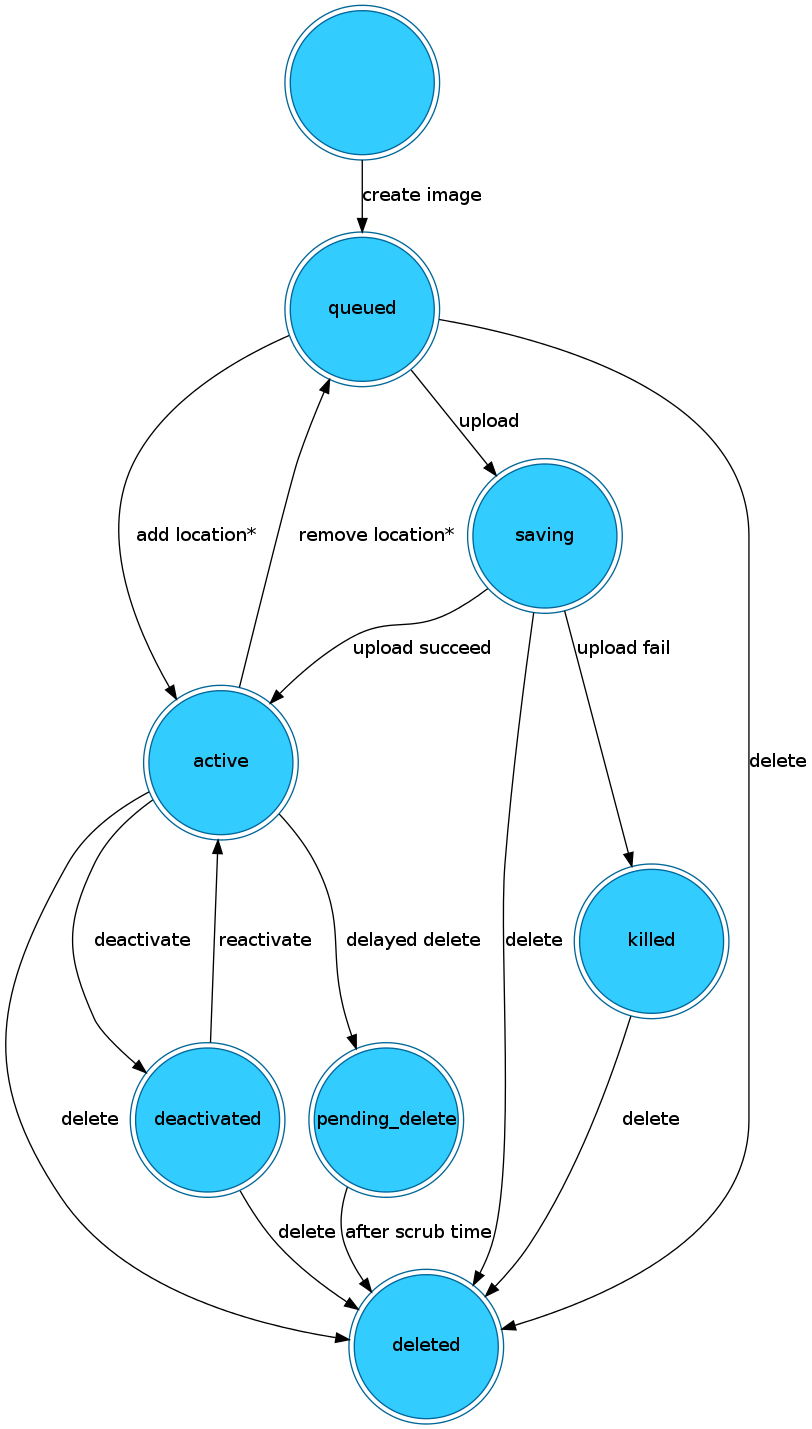
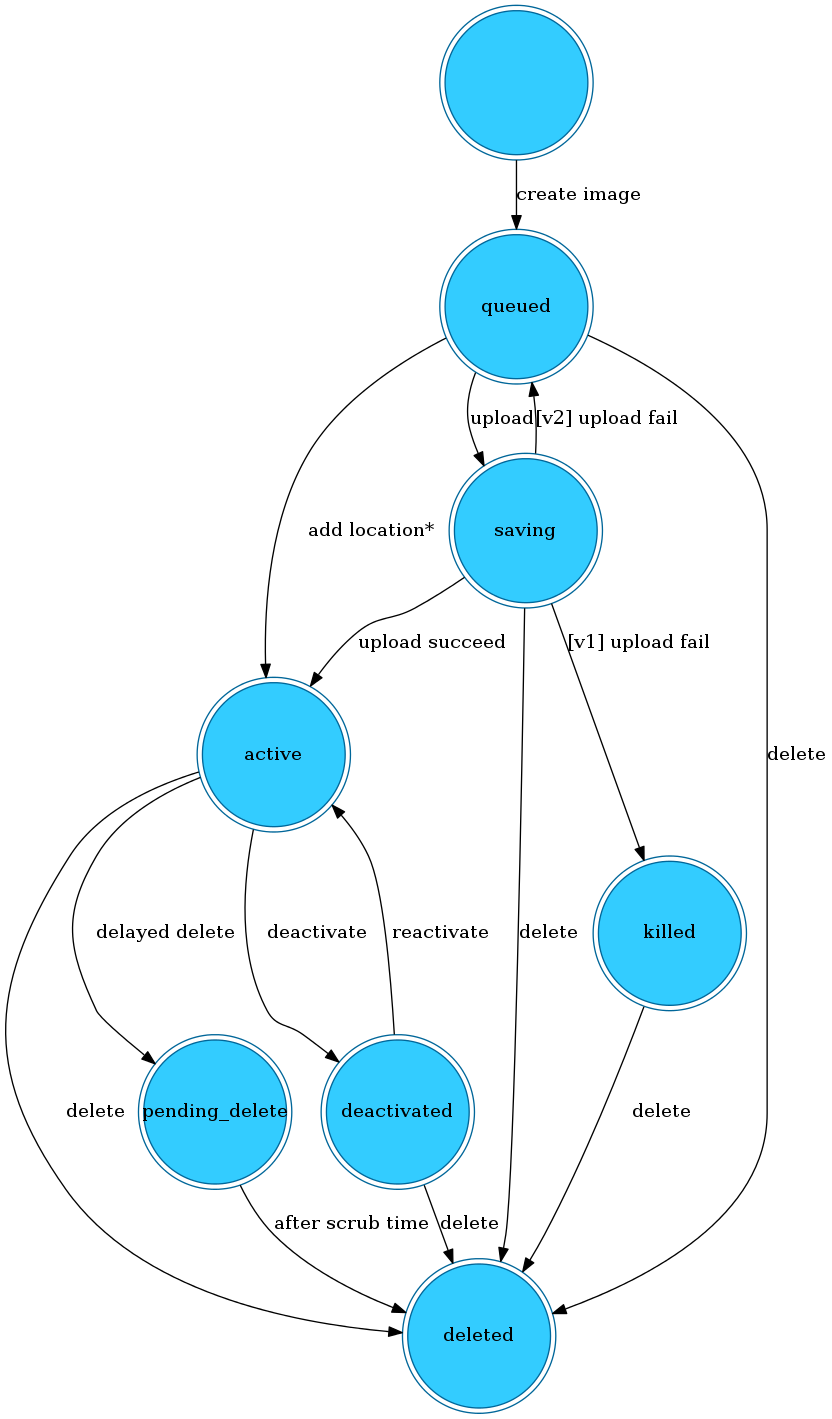
Remove state transition from active to queued
After commit Ieb03aaba887492819f9c58aa67f7acfcea81720e it is no
longer necessary to maintain a state transition from ACTIVE to
QUEUED. The only time this happened was when someone removed
the last location from an image. Since this was removed we
don't need it anymore.

Also, updates the image state transition images and docs to
represent the current state transitions.

Closes-Bug: #1555448

diff --git a/glance/domain/__init__.py b/glance/domain/__init__.py
@@ -103,7 +103,7 @@ class Image(object):
         # can be retried.
         'queued': ('saving', 'active', 'deleted'),
         'saving': ('active', 'killed', 'deleted', 'queued'),
-        'active': ('queued', 'pending_delete', 'deleted', 'deactivated'),
+        'active': ('pending_delete', 'deleted', 'deactivated'),
         'killed': ('deleted',),
         'pending_delete': ('deleted',),
         'deleted': (),

diff --git a/doc/source/statuses.rst b/doc/source/statuses.rst
@@ -71,9 +71,6 @@ Images in Glance can be in one the following statuses:
 
    * Add location from zero to more than one.
 
-   * Remove location from one or more to zero by PATCH method which is only
-     supported in v2.
-
 Task Statuses
 ==============
 
